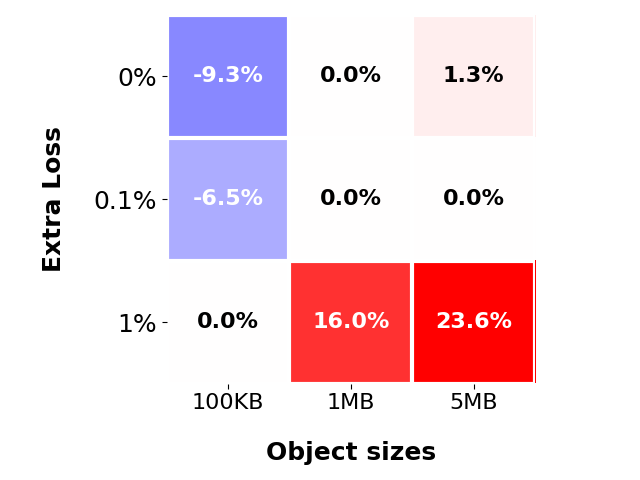
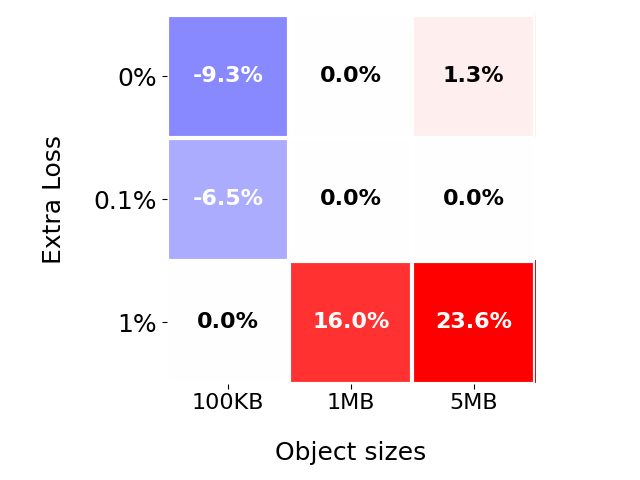
More changes to README

Changed region(s): [[0.4062, 0.9062, 0.6875, 0.9688], [0.0625, 0.25, 0.0938, 0.5625]]

diff --git a/analysis/main.py b/analysis/main.py
@@ -321,10 +321,8 @@ def h2_vs_h3_v2(timings: object, sizes):
             print('{} - {}'.format(domain.capitalize(), grouping['title']))
             fig, ax = plt.subplots()
             # ax.set_title()
-            ax.set_ylabel(grouping['title'], fontsize=18,
-                          fontweight='bold', labelpad=20)
-            ax.set_xlabel('Object sizes', fontsize=18,
-                          fontweight='bold', labelpad=20)
+            ax.set_ylabel(grouping['title'], fontsize=18, labelpad=20)
+            ax.set_xlabel('Object sizes', fontsize=18, labelpad=20)
 
             im, cbar = heatmap(
                 np.array(h2_vs_h3_data),

diff --git a/README.md b/README.md
@@ -3,13 +3,8 @@
 This repository is a set of tools to benchmark, compare, and analyze QUIC and TCP performance of production endpoints. So far, we have used this tool on endpoints from **Google**, **Facebook**, and **Cloudflare** which are detailed in `endpoints.json`. Below are some sample results between QUIC and TCP:
 
 ### QUIC vs TCP
-Blue = Better H3 Performance
 
-Red = Better H2 Performance
-
-TTLB = Time To Last Byte
-
-Percentage in heatmap cells = (H3 TTLB - H2 TTLB) / H2 TTLB
+*Various heatmaps showcasing QUIC versus TCP performance for single-object web resources. Red represents worse H3 performance as it indicates an increase in TTLB from H2 and H3 and vice versa. The number in each cell shows the exact percent difference in TTLB from H2 to H3.*
 
 #### Extra Loss
 
@@ -23,19 +18,37 @@ Google | Facebook | Cloudflare
 :-: | :-: | :-:
 ![google_extra_delay](./static/Google_Extra_Delay.png) | ![facebook_extra_delay](./static/Facebook_Extra_Delay.png) | ![cloudflare_extra_delay](./static/Cloudflare_Extra_Delay.png)
 
+Some significant findings from these graphs are: 
+- QUIC performs **better** than TCP for 100kb payloads
+- QUIC performs **worse** than TCP against Cloudflare endpoints during high loss rates
+- QUIC performs **worse** than TCP against Facebook endpoints during high latency
+- QUIC performs **better** than TCP against Google endpoints during high latency
+
 ### QUIC Client Comparison
 
-Lighter = Better performance
+*Various heatmaps comparing QUIC performance across different clients. The tick marks on the colorbar represent percent differences in mean TTLB from the best performing H3 client. As such, 0% is the best value a client can achieve and the darker the color, the worse the performance.*
 
-Darker  = Worse Performance
+1% Extra Loss | 100ms Extra Delay
+:-: | :-:
+![h3_extra_loss](./static/H3_1_Loss.png) | ![h3_extra_loss](./static/H3_100_Delay.png)
 
-#### 1% Extra Loss
+Some significant findings from these graphs are: 
+- Ngtcp2 performs **signficiantly better** than other QUIC clients against Facebook endpoints during high latency
+- Chrome performs **worse** than other QUIC clients for 100kb payloads
+- Generally, QUIC clients have **equivalent** performance for most network and payload combinations
 
-![h3_extra_loss](./static/H3_1_Loss.png)
+### ACK Analysis
 
-#### 100ms Extra Delay
+*Red represents Chrome H2 and blue represents Chrome H3. Each dot in the graph represents an ACK packet/frame sent from the client.*
 
-![h3_extra_loss](./static/H3_100_Delay.png)
+Google 1% loss 1mb | Cloudflare 1% loss 1mb | Google 100ms delay 100kb | Facebook 100ms delay 100kb
+:-: | :-: | :-: | :-:
+![google_loss_1](./static/google_loss-1.png) | ![cloudflare_loss_1](./static/cloudflare_loss-1.png) | ![google_delay_100](./static/google_delay-100.png) | ![facebook_delay_100](./static/facebook_delay-100.png)
+
+Some significant findings from these graphs are: 
+- For Cloudflare endpoints during high loss, QUIC's throughput is less than TCP's but becomes equivalent later on
+- For Facebook endpoints during high latency, QUIC traffic is sent in bursts whereas it is smooth for TCP
+
 
 ## Usage
 
